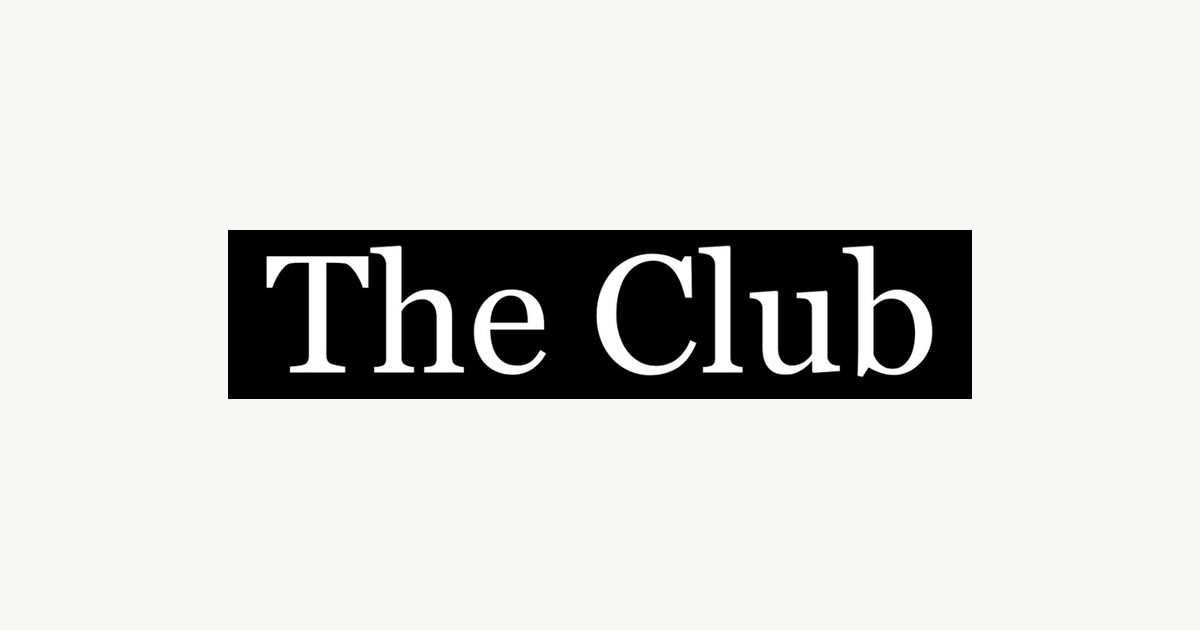
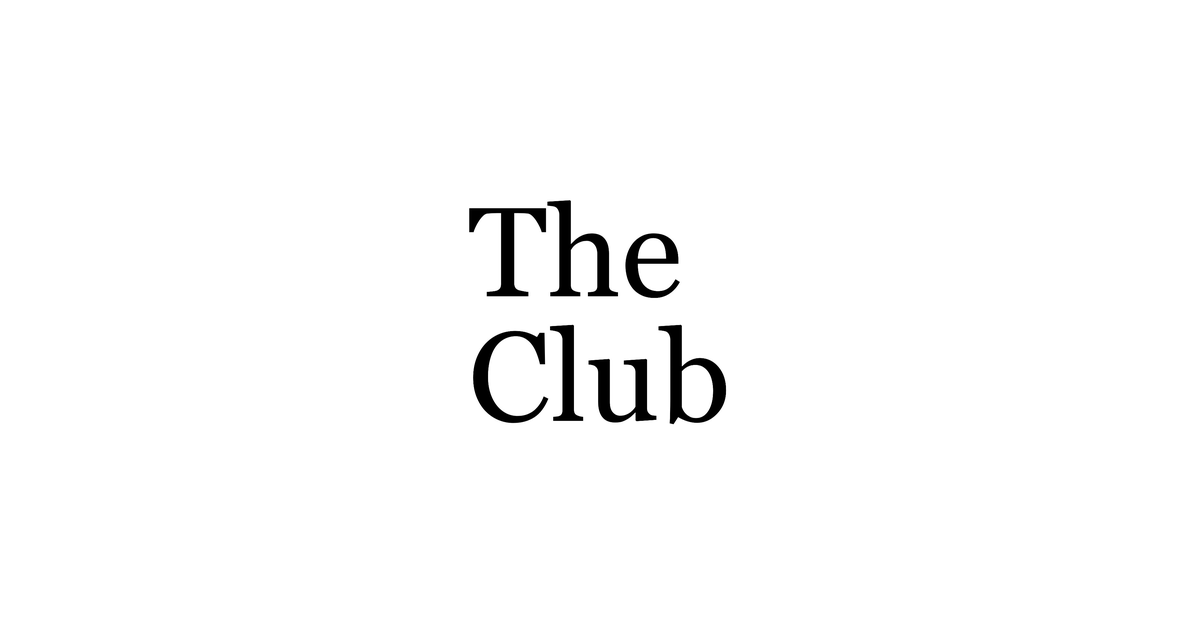
Use the square Club wordmark on the Open Graph share card.

Changed region(s): [[0.185, 0.3016, 0.8325, 0.6937]]

diff --git a/index.html b/index.html
@@ -11,14 +11,14 @@
     <meta property="og:site_name" content="The Club" />
     <meta property="og:title" content="The Club" />
     <meta property="og:description" content="The Club — frameworks, listings, and a private community for builders and operators." />
-    <meta property="og:image" content="https://www.theclubnyc.com/og-share.png?v=1" />
+    <meta property="og:image" content="https://www.theclubnyc.com/og-share.png?v=2" />
     <meta property="og:image:width" content="1200" />
     <meta property="og:image:height" content="630" />
     <meta property="og:image:alt" content="The Club" />
     <meta name="twitter:card" content="summary_large_image" />
     <meta name="twitter:title" content="The Club" />
     <meta name="twitter:description" content="The Club — frameworks, listings, and a private community for builders and operators." />
-    <meta name="twitter:image" content="https://www.theclubnyc.com/og-share.png?v=1" />
+    <meta name="twitter:image" content="https://www.theclubnyc.com/og-share.png?v=2" />
     <link rel="icon" type="image/png" href="favicon.png" />
     <link rel="apple-touch-icon" href="apple-touch-icon.png" />
     <!-- Anti-flash guard: keep the page hidden until qava-landing.js rebuilds the homepage.
